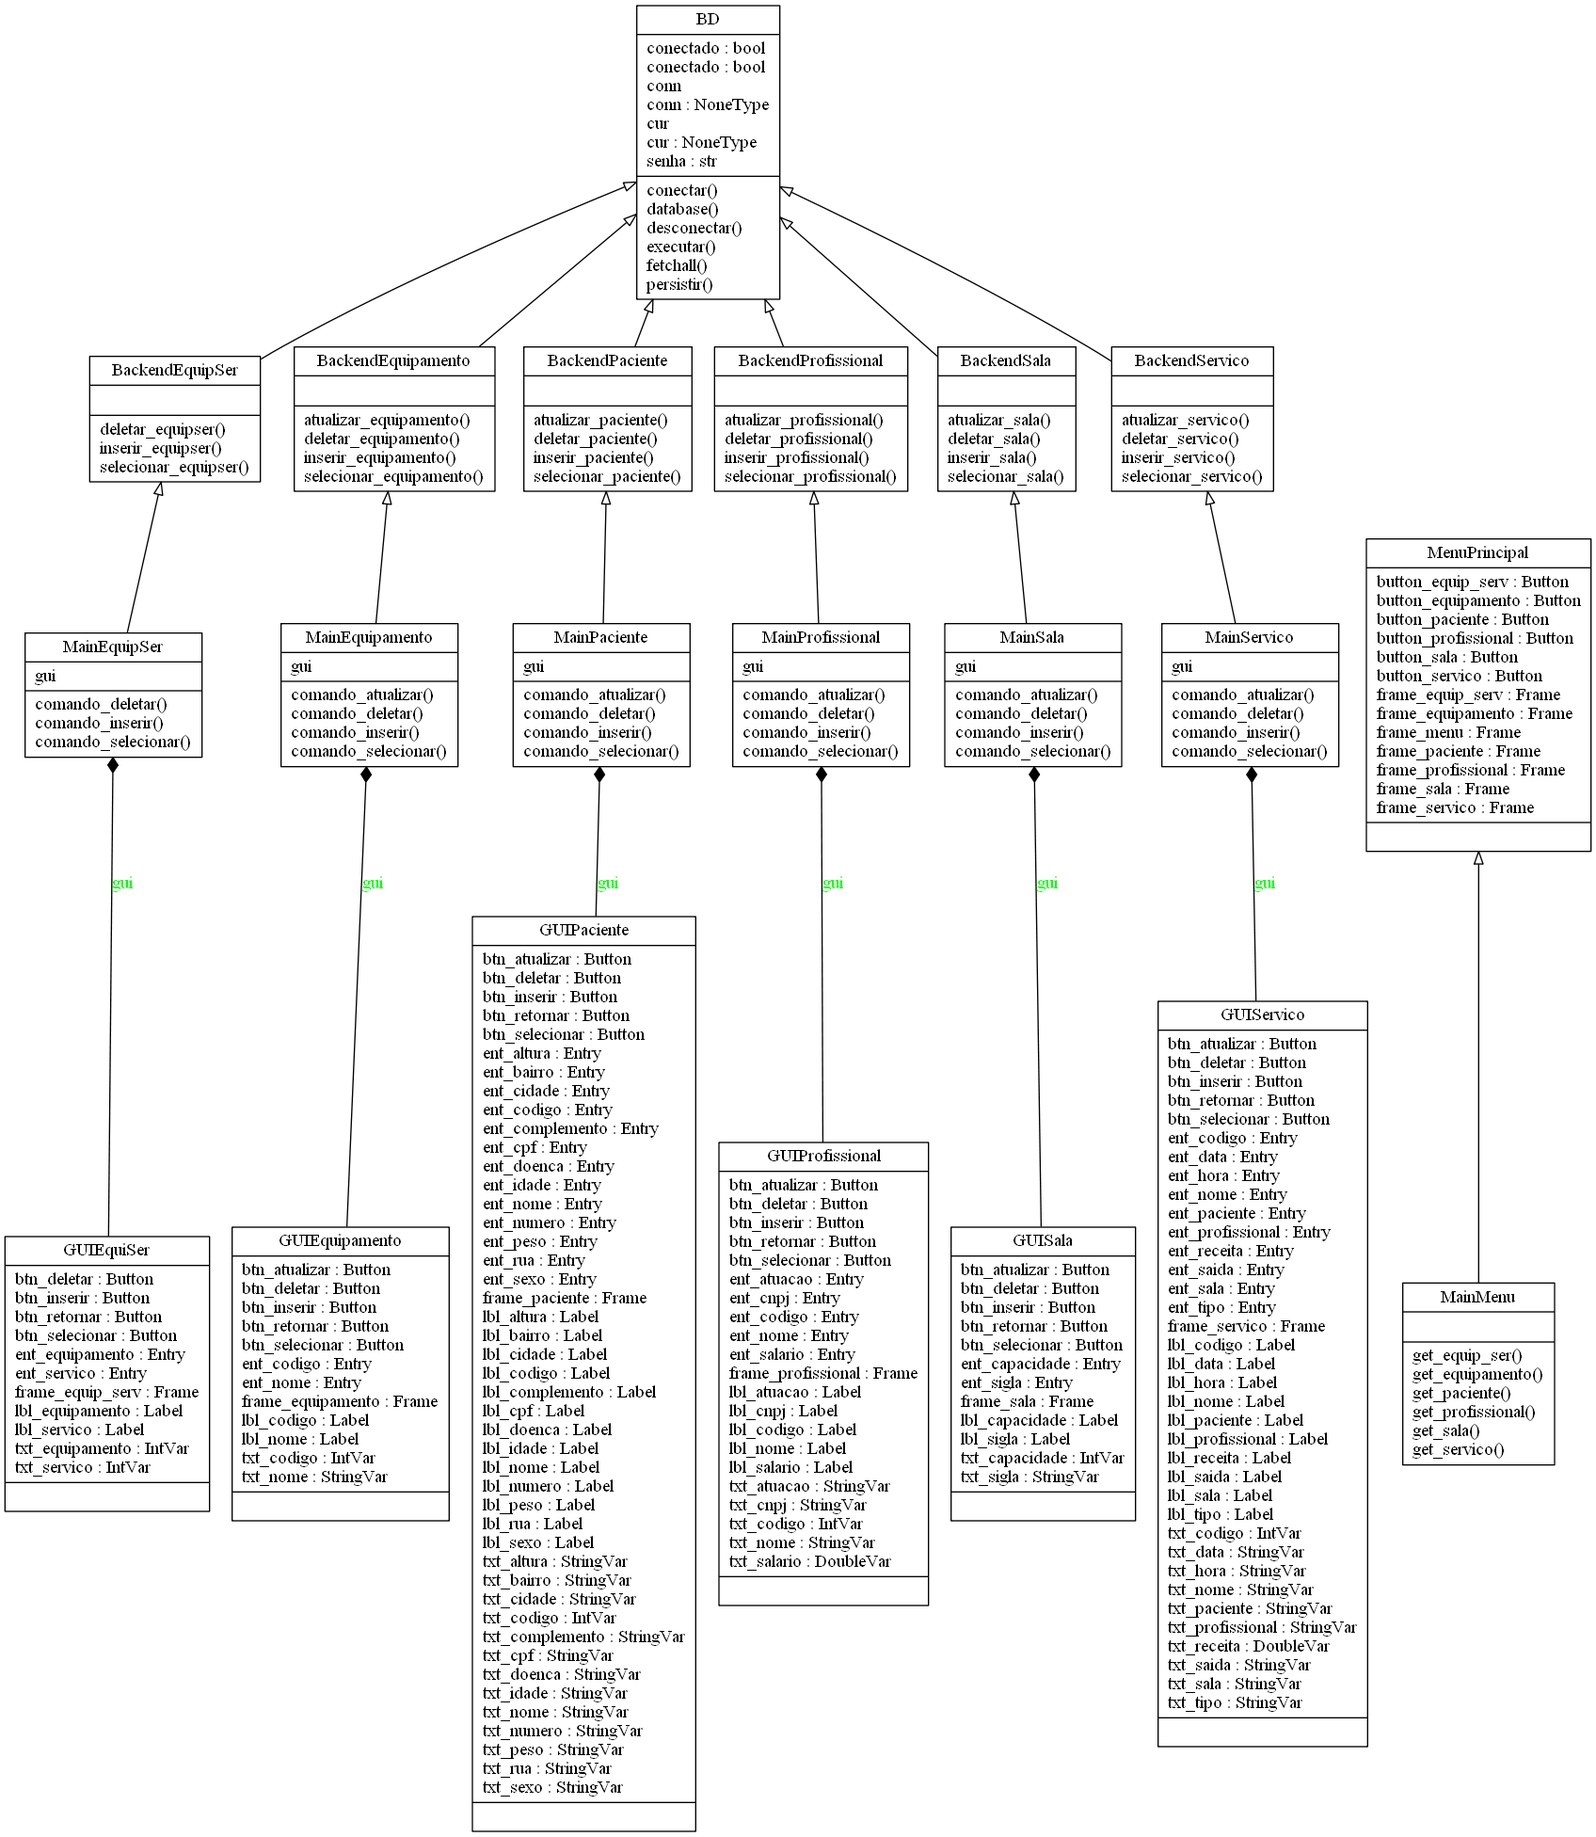
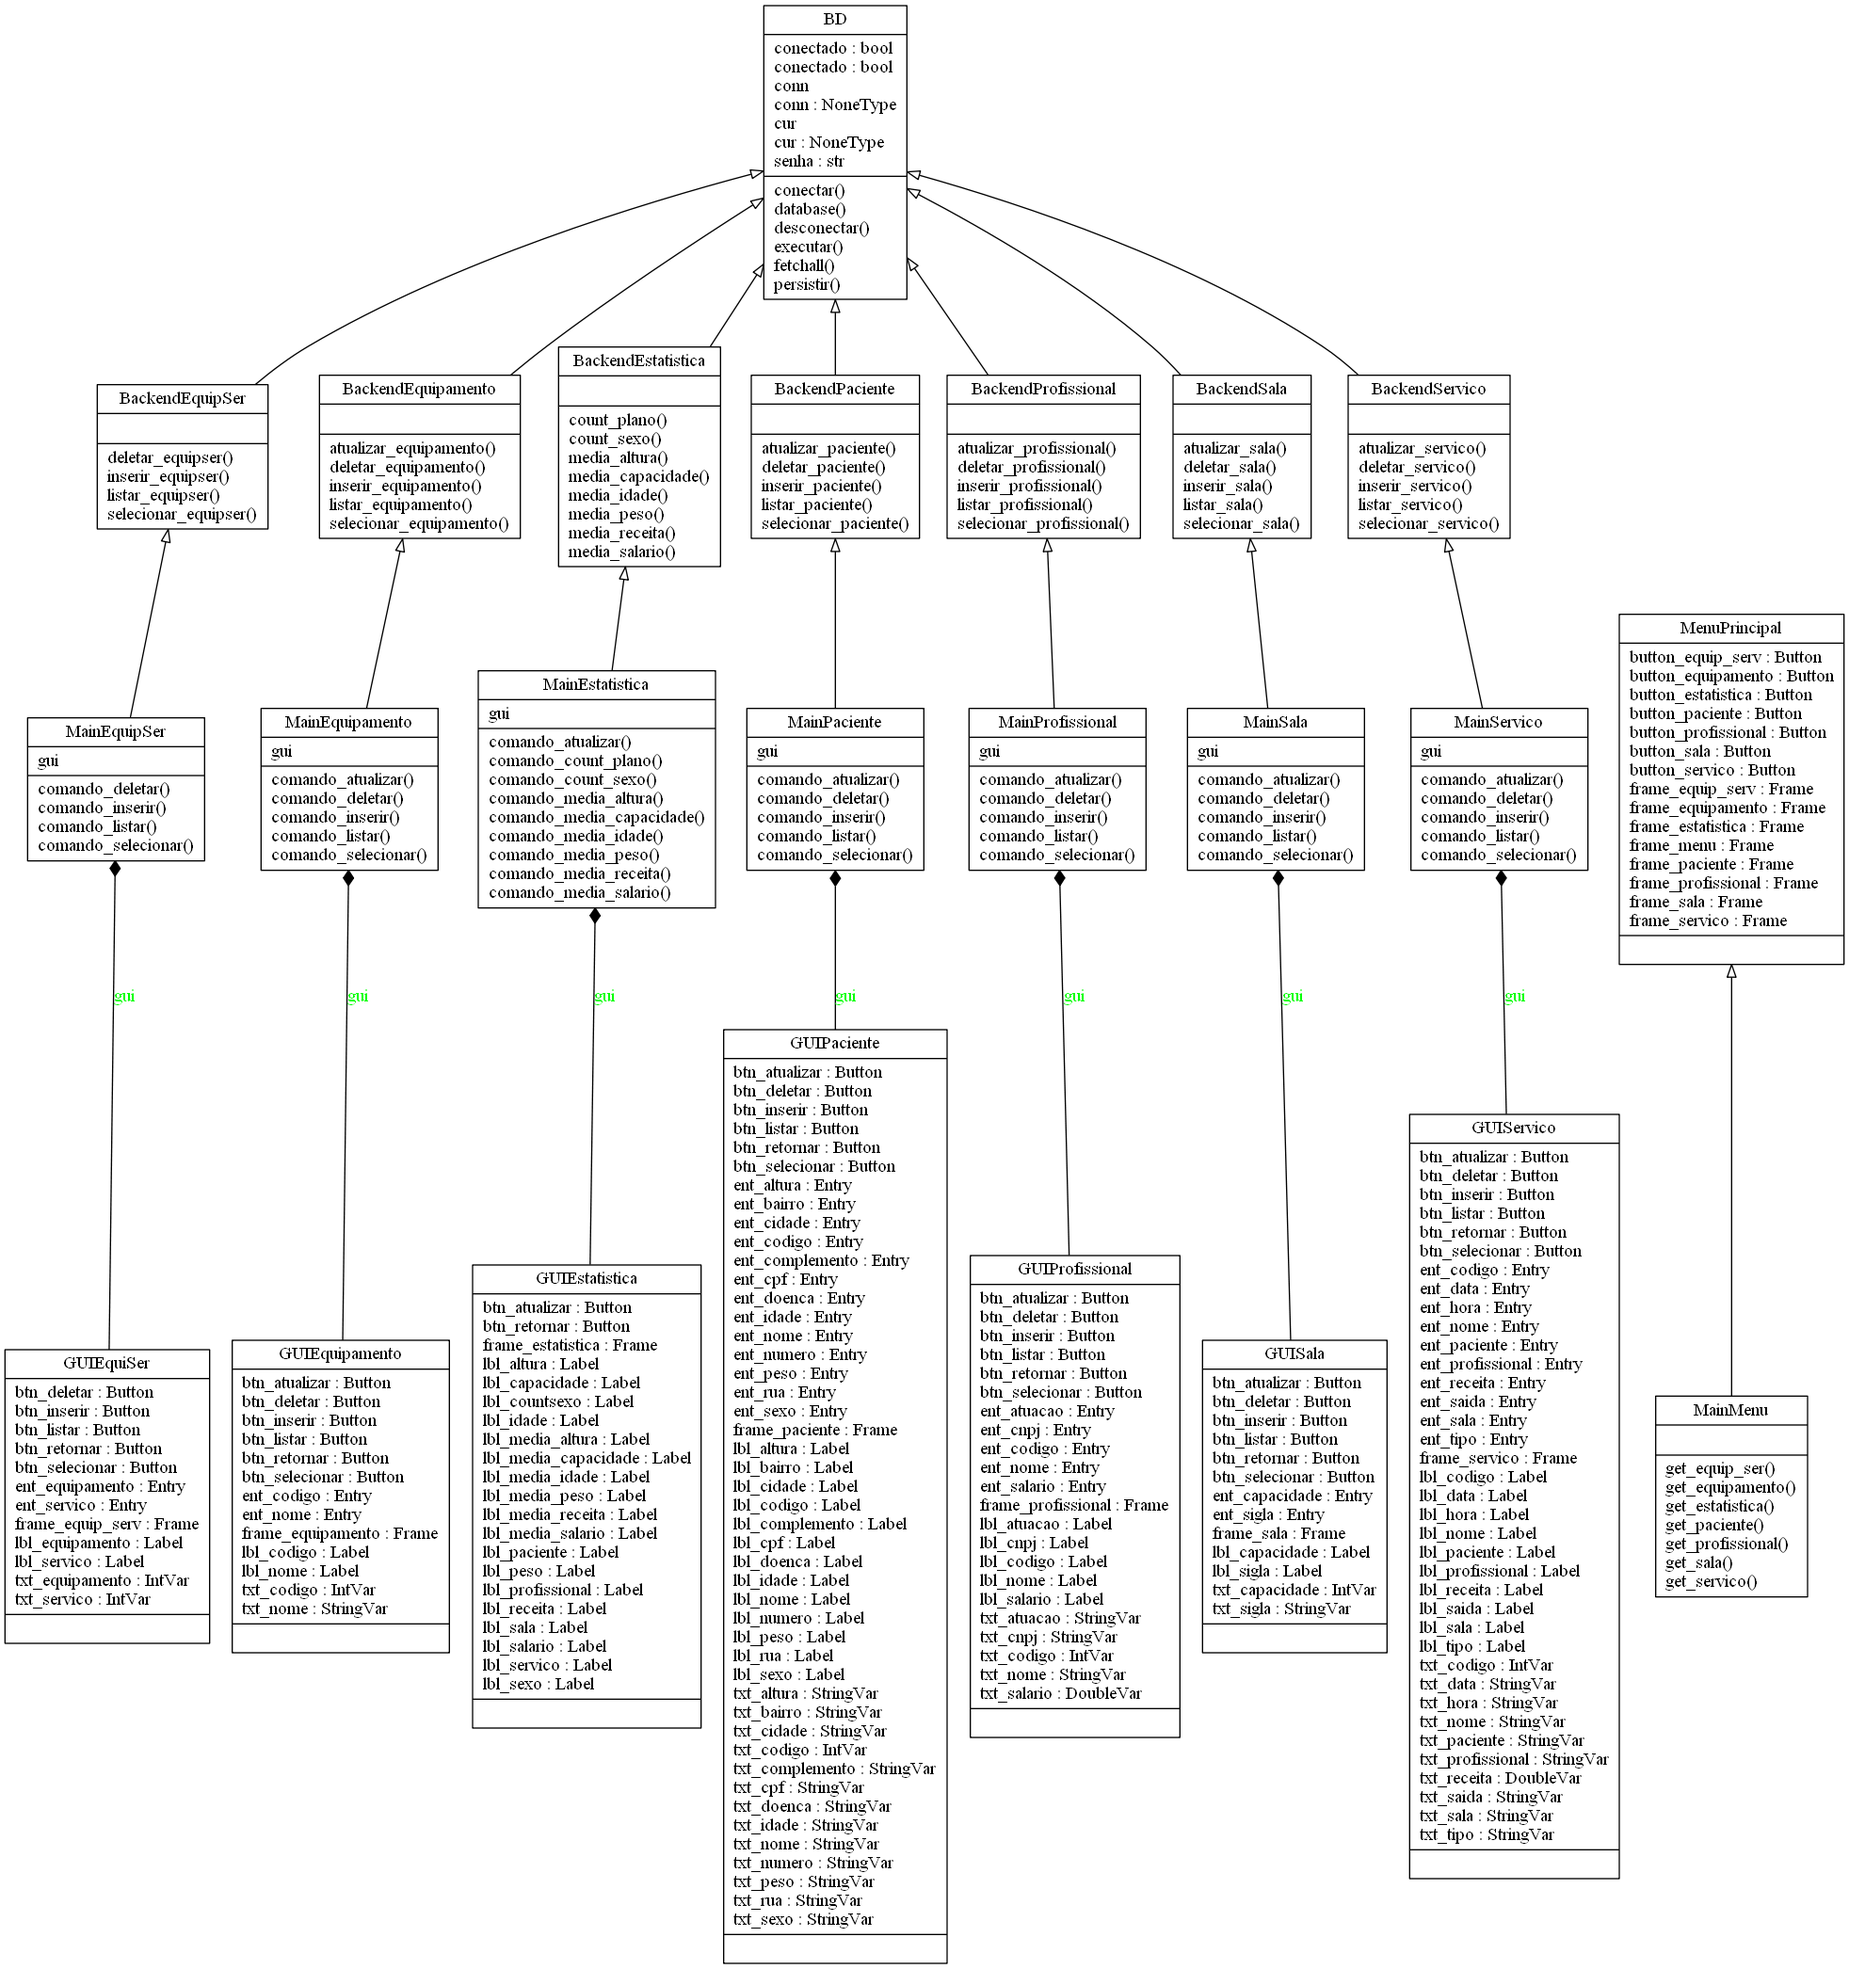
pós estatistica

diff --git a/docs/utilization/index.html b/docs/utilization/index.html
@@ -483,6 +483,20 @@
   
 </li>
         
+          <li class="md-nav__item">
+  <a href="#8-menu-estatistica" title="8. Menu Estatistica" class="md-nav__link">
+    8. Menu Estatistica
+  </a>
+  
+</li>
+        
+          <li class="md-nav__item">
+  <a href="#cmd" title="CMD" class="md-nav__link">
+    CMD
+  </a>
+  
+</li>
+        
       </ul>
     </nav>
   
@@ -752,6 +766,20 @@
   
 </li>
         
+          <li class="md-nav__item">
+  <a href="#8-menu-estatistica" title="8. Menu Estatistica" class="md-nav__link">
+    8. Menu Estatistica
+  </a>
+  
+</li>
+        
+          <li class="md-nav__item">
+  <a href="#cmd" title="CMD" class="md-nav__link">
+    CMD
+  </a>
+  
+</li>
+        
       </ul>
     </nav>
   
@@ -783,7 +811,7 @@
 e, caso a senha não seja a padrão ou o computador não possua Postgres, ele irá requisitar que digite a senha certa. Sendo o segundo caso,
 feche o CMD e instale o <a href="https://www.postgresql.org/download/">Postgres</a>.</p>
 <h2 id="telas">Telas</h2>
-<p>O programa possui 7 telas:</p>
+<p>O programa possui 8 telas e um CMD:</p>
 <h3 id="1-menu-principal">1. Menu Principal</h3>
 <p>Cada tabela pode ser acessada com seus respectivos botões nesse menu. É permitido abrir mais de uma tabela ao mesmo tempo e,
 quando uma delas for fechada, o menu principal irá se manter. Para sair do programa, basta fechar o menu.</p>
@@ -871,6 +899,28 @@ existente nas outras tabelas, para garantir a integridade, então é necessario 
 <li>Equipamento: inserir código do equipamento.</li>
 </ol>
 <p><img alt="telaequipser" src="../images/equipser.png" /></p>
+<h3 id="8-menu-estatistica">8. Menu Estatistica</h3>
+<p>Essa interface mostra alguns dados que podem ser relevantes de algumas das outras tabelas. Ao clicar em atualizar, os dados irão aparecer, caso não tenha clicado antes
+ou irão atualizar se mudanças tiverem sido feitas nas outras tabelas. Os dados são:</p>
+<ol>
+<li>Idade média dos pacientes.</li>
+<li>Contagem de pessoas do sexo feminino e masculino.</li>
+<li>Altura média dos pacientes.</li>
+<li>Peso médio dos pacientes.</li>
+<li>Salário médio dos profissionais.</li>
+<li>Capacidade média das salas.</li>
+<li>Receita média dos serviços.</li>
+<li>Contagem de cada tipo de consulta existente (aparece no CMD).</li>
+</ol>
+<p><img alt="telaestatistica" src="../images/estatistica.png" /></p>
+<h3 id="cmd">CMD</h3>
+<p>Aqui serão apresentados os dados de cada select e os tipos de consultas da tabela estatistica. Cada linha corresponde a uma tupla e, no caso dos selects, são
+mostrados os campos na ordem que estão sendo apresentados na interface da tabela.</p>
+<p><img alt="telacmd" src="../images/cmd.png" /></p>
+<p>Nesse caso, o primeiro conjunto de linhas é cada plano de saúde e sua contagem (exemplos foram utilizados). E, embaixo, são conjuntos de tuplas da tabela paciente.
+A ordem de cada coluna será a ordem apresentada no modelo relacional e também será um pouco semelhante com os campos da interface. Então será, nessa ordem:
+Código, CPF, Nome, Idade, Sexo, Doença, Altura, Peso, Cidade, Bairro, Rua, Número e Complemento. Repare que em alguns lugares existem <code>''</code> ou <code>None</code>, isso significa
+que esses campos não foram preenchidos pelo usuário, sendo colocados valores nulos.</p>
                 
                   
                 

diff --git a/docs/about/index.html b/docs/about/index.html
@@ -416,7 +416,7 @@ presente na instalação do Python. O código fonte foi compilado a partir do Py
 o programa PgAdmin, contido no SGBD. Por fim, foi usado o módulo do Python 'psycopg2' para fazer o link entre o banco e o
 código.</p>
 <h1 id="autor">Autor</h1>
-<p>A documentação e o projeto foram desenvolvidos pelo aluno Fabrício Moura Jácome do curso de BSI UNI-RN, tendo ingressado em 2018.1.</p>
+<p>A documentação e o projeto foram desenvolvidos pelo aluno  do curso de BSI UNI-RN, tendo ingressado em 2018.1.</p>
                 
                   
                 
